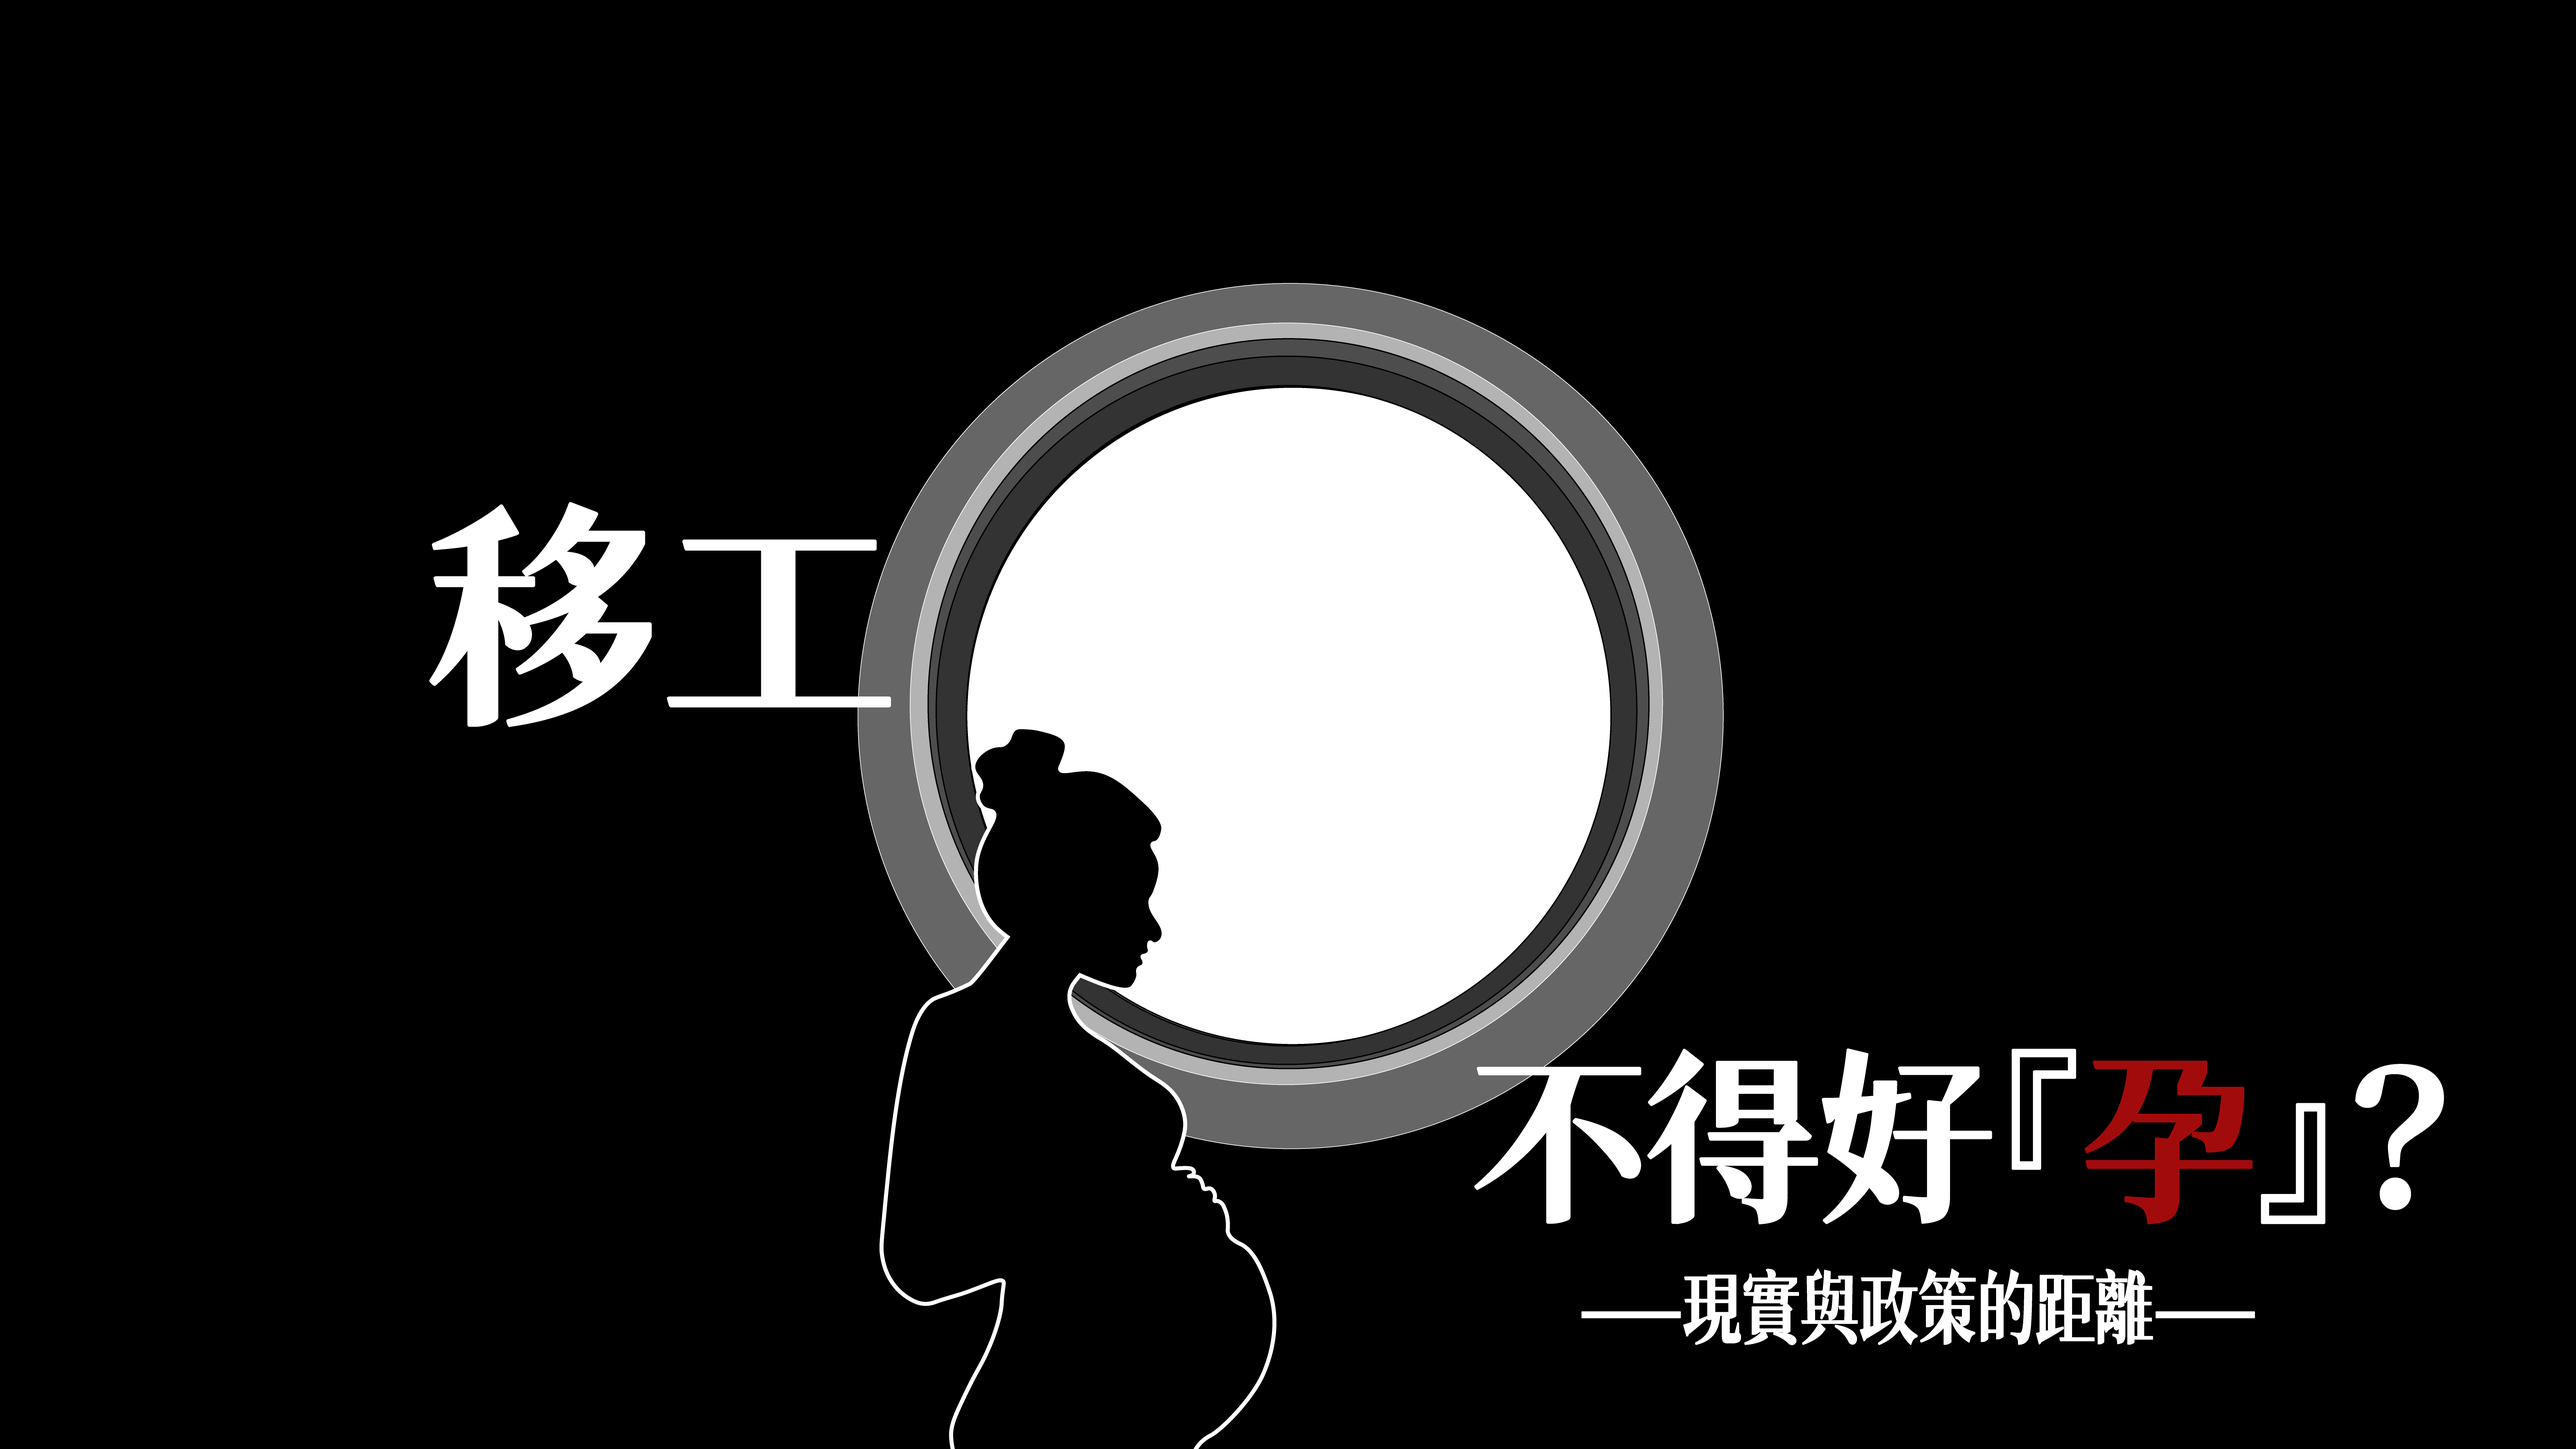
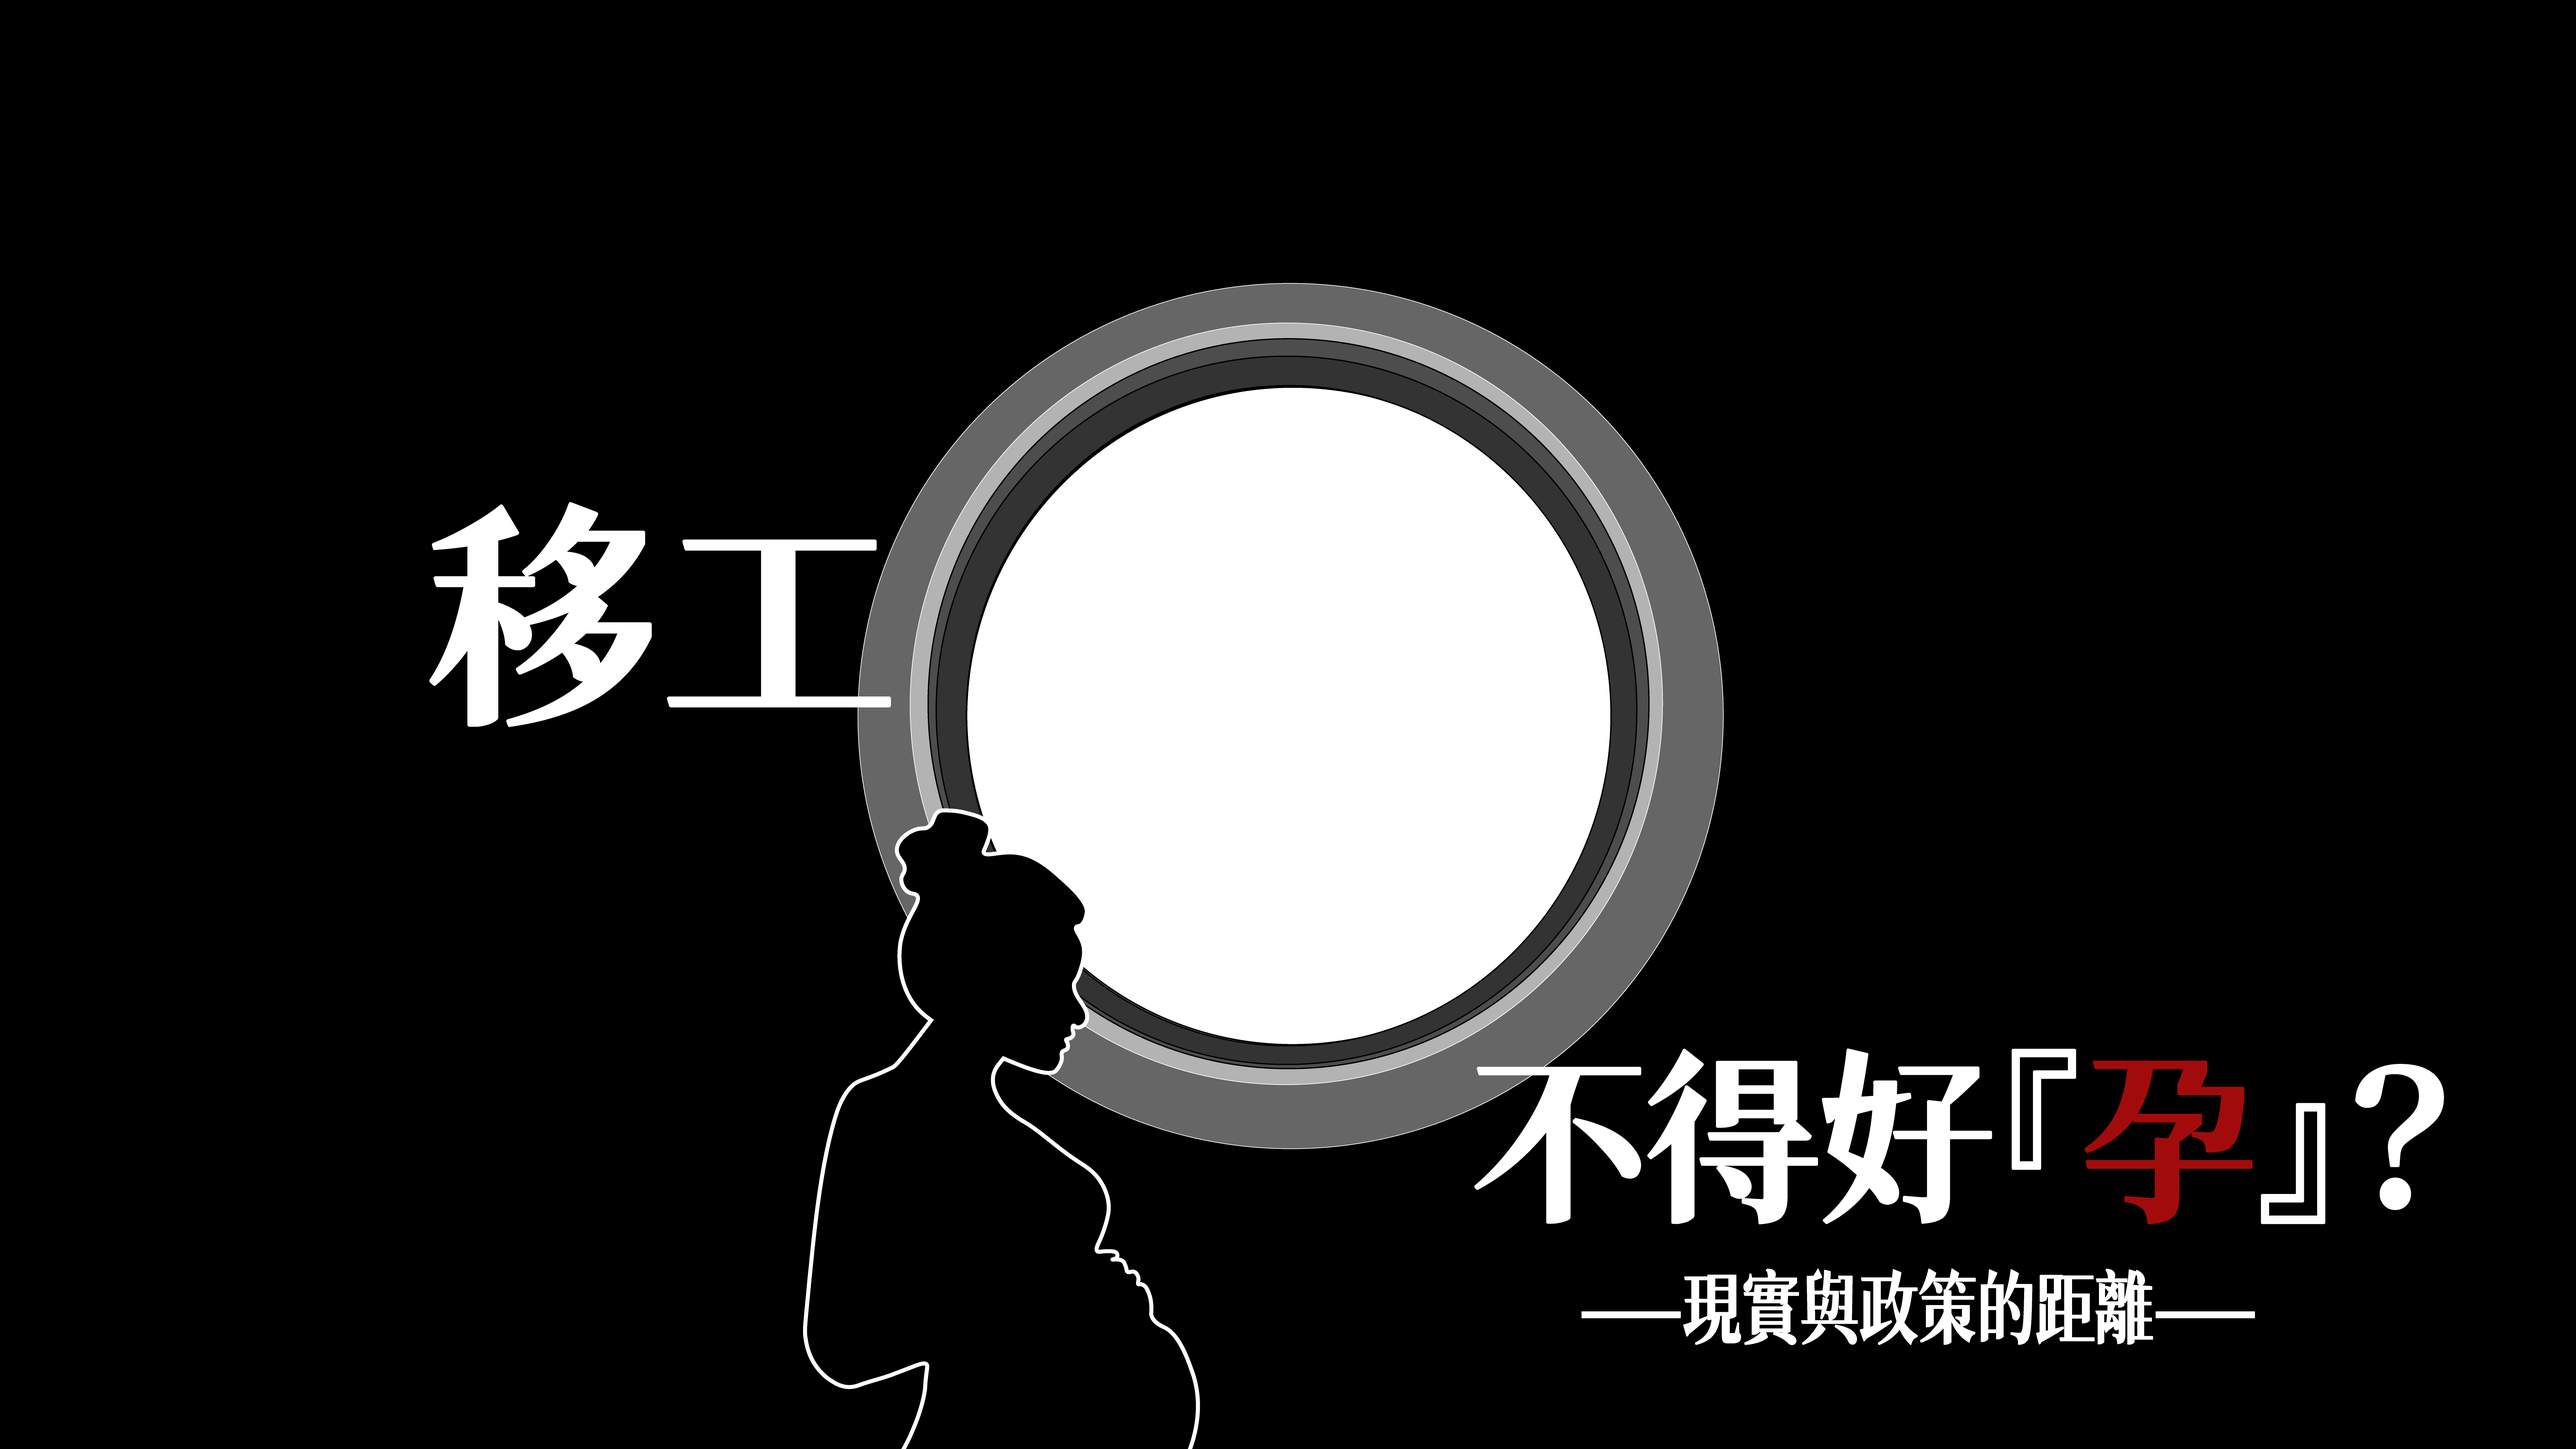
updated

diff --git a/ntujour2024/index.html b/ntujour2024/index.html
@@ -18,7 +18,7 @@
     <div class="wrapper">
         <div class="content">
             <section class="section hero">
-                <img src="https://assets-global.website-files.com/63ec206c5542613e2e5aa784/643312a6bc4ac122fc4e3afa_main%20home.webp"
+                <img src="https://hsutingyun.github.io/ntujour2024/picture/Banner.png"
                     alt="hero image">
             </section>
         </div>

diff --git a/ntujour2024/styles.css b/ntujour2024/styles.css
@@ -63,7 +63,7 @@
     height: 100vh;
     overflow: hidden;
     perspective: 500px;
-    background-image: url(https://hsutingyun.github.io/ntujour2024/移工報導圖片/baby.webp);
+    background-image: url(https://hsutingyun.github.io/ntujour2024/picture/baby.webp);
     background-position: center center;
     background-repeat: no-repeat;
     background-size: cover;

diff --git a/ntujour2024/script.js b/ntujour2024/script.js
@@ -9,7 +9,7 @@ document.addEventListener('DOMContentLoaded', function () {
         scrollTrigger: {
           trigger: ".wrapper",
           start: "top top",
-          end: "+=150%",
+          end: "+=200%",
           pin: true,
           scrub: true,
           markers: true
